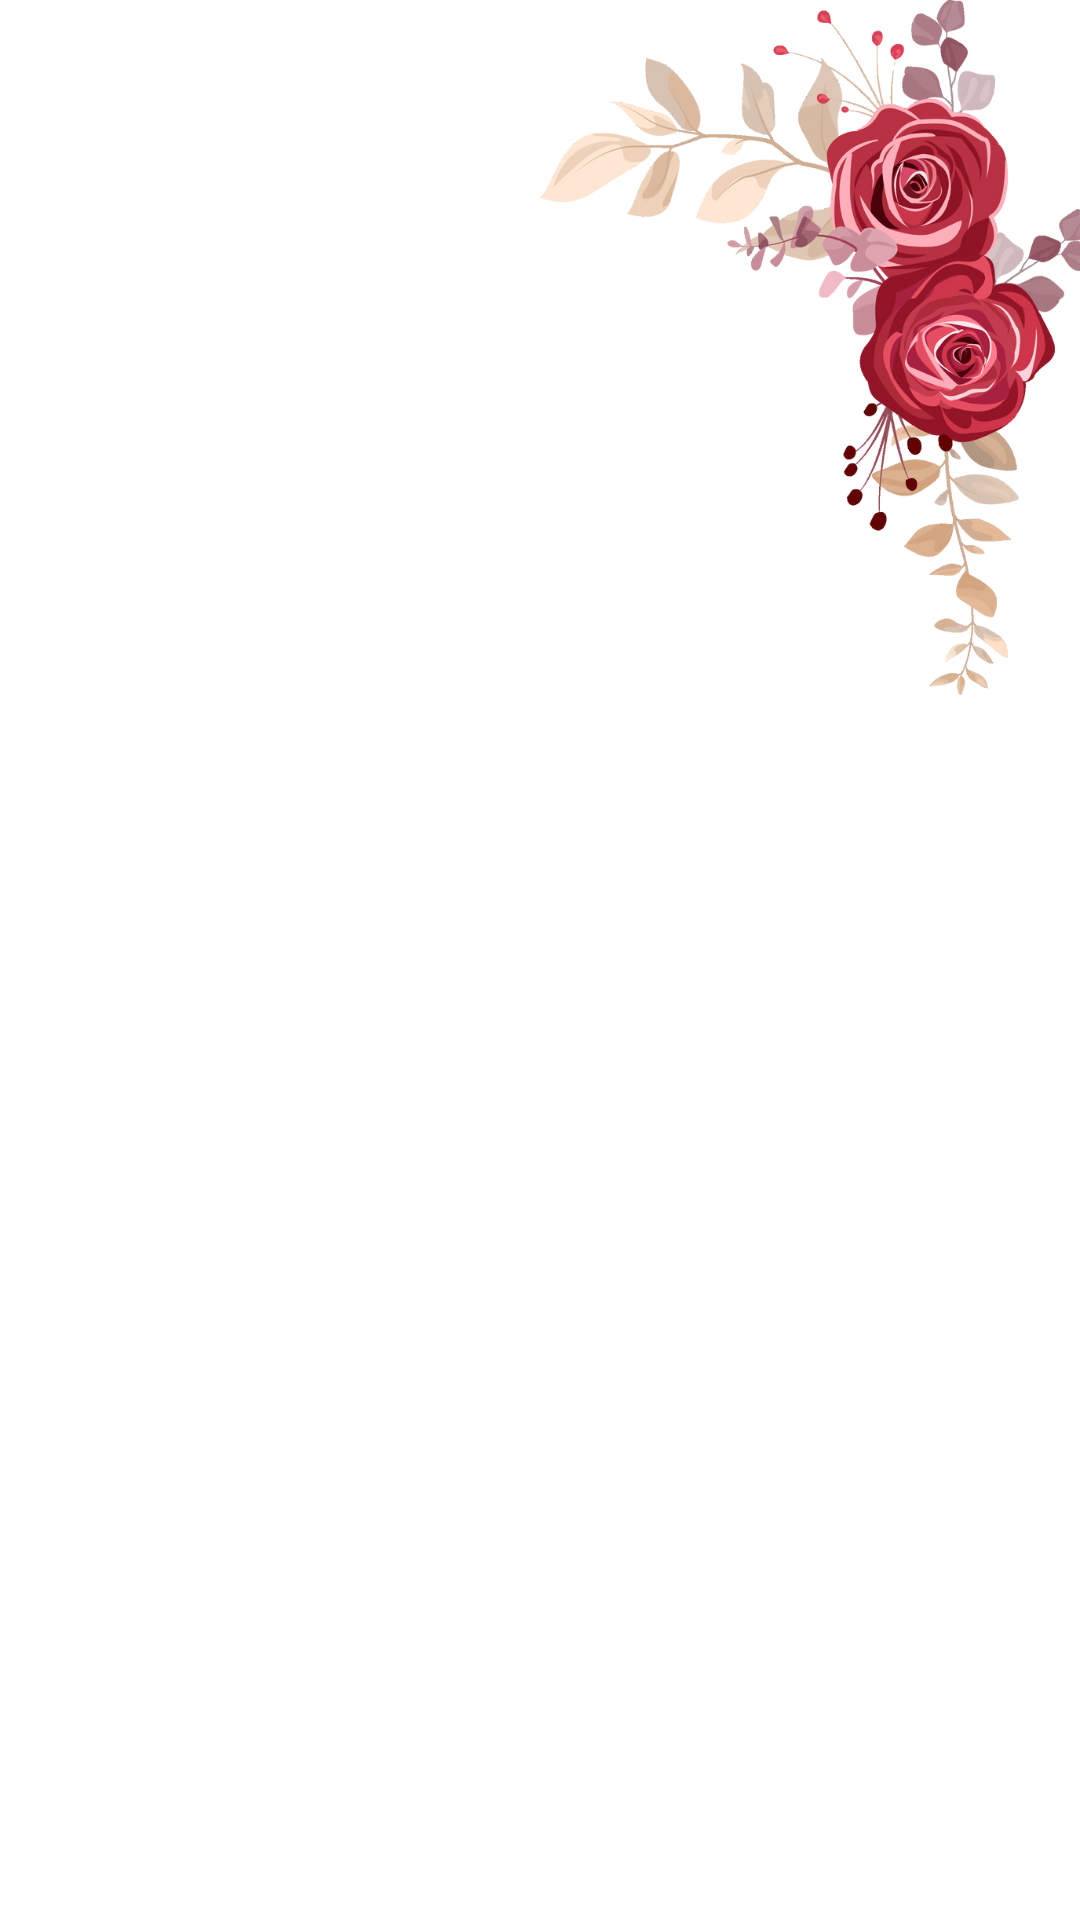
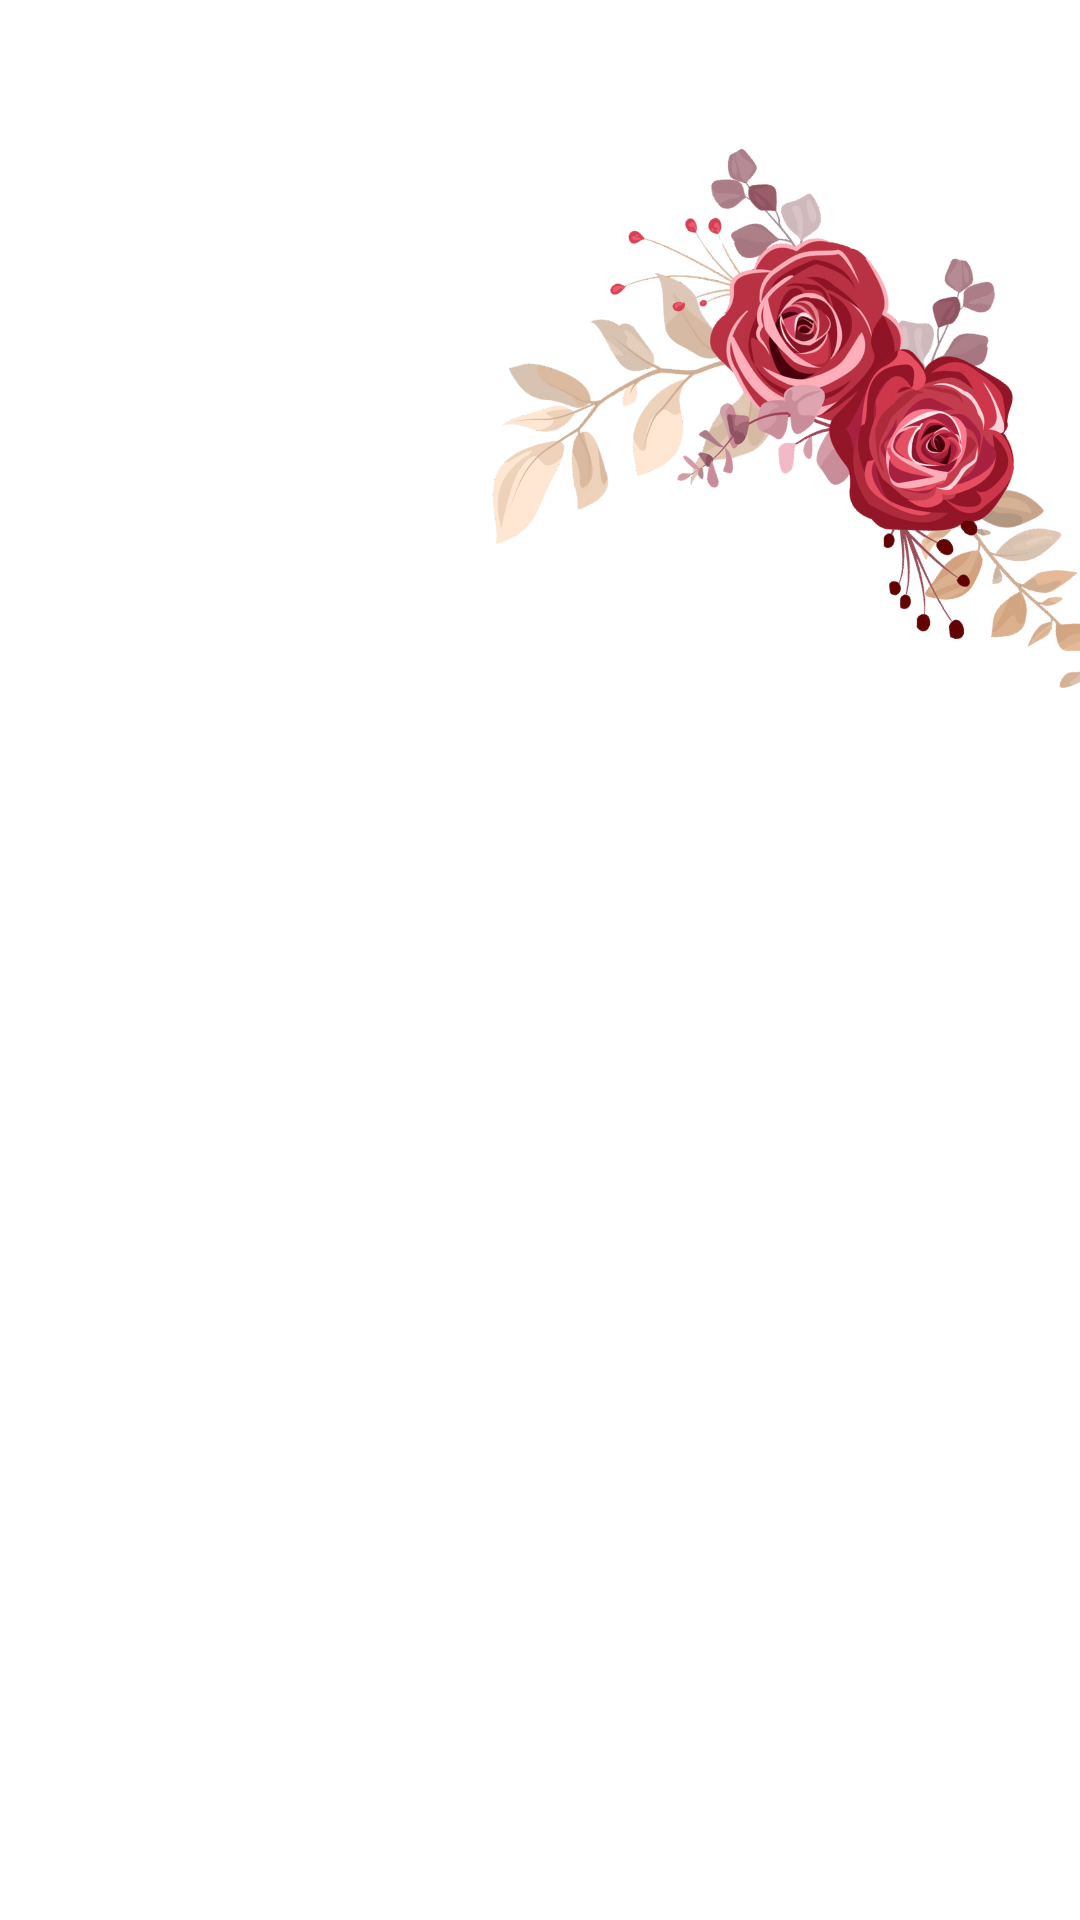
version 2

Changed region(s): [[0.4583, 0.0, 1.0, 0.375]]

diff --git a/src/components/CollageSection.jsx b/src/components/CollageSection.jsx
@@ -1,14 +1,21 @@
 import React, { useState } from "react";
 import { motion, useInView } from "framer-motion";
-import { backgroundWedding4 as backgroundImg } from "../assets/assets";
+import {
+  backgroundWedding4 as backgroundImg,
+  photo1,
+  photo2,
+  photo3,
+  photo4,
+  photo5,
+} from "../assets/assets";
 
 const CollageSection = () => {
   const [images, setImages] = useState([
-    "https://via.placeholder.com/400",
-    "https://via.placeholder.com/400",
-    "https://via.placeholder.com/400",
-    "https://via.placeholder.com/400",
-    "https://via.placeholder.com/400",
+    photo1,
+    photo2,
+    photo3,
+    photo4,
+    photo5,
   ]);
 
   return (
@@ -24,7 +31,7 @@ const CollageSection = () => {
         {/* First large image spanning multiple rows and columns */}
         <ImageCard
           src={images[0]}
-          className="col-span-2 row-span-2 lg:col-span-3 lg:row-span-3"
+          className="col-span-2 row-span-2 h-[300px] sm:h-[350px] lg:col-span-3 lg:row-span-3 lg:h-[500px] flex justify-center items-center"
           animationDelay={0}
         />
 
@@ -33,26 +40,10 @@ const CollageSection = () => {
           <ImageCard
             key={index}
             src={image}
-            className="h-full lg:col-span-1 lg:row-span-1"
+            className="h-[150px] sm:h-[200px] lg:h-[200px] lg:col-span-1 lg:row-span-1 lg:m-2" // Reduced height for larger screens
             animationDelay={index * 0.2}
           />
         ))}
-
-        {/* Extra image for large screens */}
-        {images[4] && (
-          <ImageCard
-            src={images[4]}
-            className="hidden lg:block lg:col-span-1 lg:row-span-1"
-            animationDelay={1.2}
-          />
-        )}
-
-        {/* Additional card displayed only on large devices */}
-        <ImageCard
-          src="https://via.placeholder.com/400"
-          className="hidden lg:block lg:col-span-1 lg:row-span-1"
-          animationDelay={1.4}
-        />
       </div>
     </div>
   );

diff --git a/src/components/WeddingInviteDetails.jsx b/src/components/WeddingInviteDetails.jsx
@@ -49,7 +49,7 @@ const WeddingInviteDetails = () => {
         <div className="text-center md:pl-6">
           <div className="flex items-center justify-center space-x-1">
             <h4 className="text-2xl font-bold text-pink-600 md:text-4xl">27</h4>
-            <h4 className="text-base text-gray-700 md:text-xl">RD</h4>
+            <h4 className="text-base text-gray-700 md:text-xl">TH</h4>
           </div>
           <h5 className="text-base text-gray-500 md:text-2xl">November</h5>
           <h5 className="text-sm italic text-gray-500 md:text-lg">Wednesday</h5>
@@ -107,13 +107,17 @@ const WeddingInviteDetails = () => {
 
   return (
     <div
-      className="relative flex flex-col items-center justify-center min-h-screen px-4 bg-center bg-cover bg-custom-gradient"
-      style={{ backgroundImage: `url(${backgroundImg})` }}
+      className="relative flex flex-col items-center justify-center h-screen px-4 bg-center bg-cover bg-custom-gradient sm:min-h-[80vh]"
+      style={{
+        backgroundImage: `url(${backgroundImg})`,
+        backgroundSize: "cover",
+        backgroundPosition: "center",
+      }}
     >
       {/* Heading text */}
       <motion.h1
         ref={headingRef}
-        className="relative z-20 mb-8 text-3xl font-bold text-pink-700 md:text-5xl"
+        className="relative z-20 mb-8 text-3xl font-bold text-pink-700 md:text-5xl font-main"
         initial={{ opacity: 0, y: -40 }}
         animate={isHeadingInView ? { opacity: 1, y: 0 } : {}}
         transition={{ duration: 1 }}
@@ -156,7 +160,7 @@ const WeddingInviteDetails = () => {
         <motion.img
           src={floralVector4}
           alt="Floral Decoration 4"
-          className="absolute top-0 right-0 w-full"
+          className="absolute right-0 w-full top-24"
           initial={{ opacity: 0.8, scale: 0.9, y: -20 }}
           animate={isFloralInView ? { scale: 1, y: 0 } : {}}
           transition={{ duration: 1.5 }}

diff --git a/src/components/Hero.jsx b/src/components/Hero.jsx
@@ -46,10 +46,10 @@ const MobileHero = ({ sectionHeight }) => {
         sectionHeight={sectionHeight}
         offsetX="0"
         startY={startYMobile}
-        endY={startYMobile - 50} // Subtle movement
+        endY={startYMobile - 30} // Slower movement for foreground
         className="w-auto mx-auto h-[400px]"
       />
-      <div className="absolute bottom-0 left-0 right-0 h-64 bg-gradient-to-b from-[#FCECDD]/0 to-[#FFC288]" />
+      <div className="absolute bottom-0 left-0 right-0 h-32 bg-gradient-to-b from-[#FCECDD]/0 to-[#FFC288]" />
     </div>
   );
 };
@@ -79,7 +79,7 @@ const ParallaxBackground = ({ image, sectionHeight }) => {
   );
 };
 
-// Parallax Foreground Component
+// Parallax Foreground Component with Fade
 const ParallaxForeground = ({
   image,
   sectionHeight,
@@ -91,8 +91,15 @@ const ParallaxForeground = ({
 }) => {
   const { scrollY } = useScroll();
 
-  // Subtle scroll movement for the avatar image
+  // Slow scroll movement for the avatar image
   const y = useTransform(scrollY, [0, sectionHeight], [startY, endY]);
+
+  // Fade out when approaching the center of the screen
+  const opacity = useTransform(
+    scrollY,
+    [0, sectionHeight / 2, sectionHeight],
+    [1, 0.5, 0]
+  );
 
   return (
     <motion.div
@@ -100,6 +107,7 @@ const ParallaxForeground = ({
       style={{
         translateX: offsetX,
         translateY: y,
+        opacity: opacity,
       }}
     >
       <img

diff --git a/src/App.jsx b/src/App.jsx
@@ -5,26 +5,27 @@ import HeroComponent from "./components/Hero";
 import WeddingInviteDetails from "./components/WeddingInviteDetails";
 import CollageSection from "./components/CollageSection";
 import MapSection from "./components/MapSection";
+import EndingDesign from "./components/EndingDesign";
 
 function App() {
   return (
     <div className="min-h-screen App bg-custom-gradient">
       <Navbar />
-      {/* Sections for hero, details, gallery, and footer */}
+      {/* Sections for hero, details, gallery, and directions */}
       <section id="hero" className="min-h-screen mx-2">
         <HeroComponent />
       </section>
-      <div className="h-20" />
+      <EndingDesign backgroundImgIndex={2} />
 
       <section id="details" className="min-h-screen mx-2">
         <WeddingInviteDetails />
       </section>
-      <div className="h-20" />
+      <EndingDesign backgroundImgIndex={2} />
 
       <section id="gallery" className="min-h-screen mx-2">
         <CollageSection />
       </section>
-      <div className="h-20" />
+      <EndingDesign backgroundImgIndex={3} />
 
       <section id="map" className="min-h-screen mx-2">
         <MapSection />

diff --git a/src/assets/assets.js b/src/assets/assets.js
@@ -10,6 +10,15 @@ import floralVector4 from "./floral-vector4.png";
 import floralVector5 from "./floral-vector5.png";
 import weddingAvatarBgrm from "./wedding_avatar_bgrm.png";
 import weddingBackground3 from "./wedding_background3.png";
+import floral_line1 from "./floral_line1.png";
+import floral_line2 from "./floral_line2.png";
+import floral_line3 from "./floral_line3.png";
+import floral_line4 from "./floral_line4.png";
+import photo1 from "./Photo1.jpg";
+import photo2 from "./Photo2.jpg";
+import photo3 from "./Photo3.jpg";
+import photo4 from "./Photo4.jpg";
+import photo5 from "./Photo5.jpg";
 
 export {
   backgroundWedding1,
@@ -23,4 +32,13 @@ export {
   floralVector5,
   weddingAvatarBgrm,
   weddingBackground3,
+  floral_line1,
+  floral_line2,
+  floral_line3,
+  floral_line4,
+  photo1,
+  photo2,
+  photo3,
+  photo4,
+  photo5,
 };

diff --git a/src/components/EndingDesign.jsx b/src/components/EndingDesign.jsx
@@ -1,0 +1,21 @@
+import React from "react";
+import {
+  floral_line1,
+  floral_line2,
+  floral_line3,
+  floral_line4,
+} from "../assets/assets";
+
+const EndingDesign = ({ backgroundImgIndex = 0 }) => {
+  const floralLines = [floral_line1, floral_line2, floral_line3, floral_line4];
+  const backgroundImg = floralLines[backgroundImgIndex] || floral_line1; // Default to first if out of range
+
+  return (
+    <div
+      className="relative flex items-center justify-center h-20 bg-center bg-cover bg-opacity-30"
+      style={{ backgroundImage: `url(${backgroundImg})` }}
+    ></div>
+  );
+};
+
+export default EndingDesign;

diff --git a/src/components/HeroWeddingInvite.jsx b/src/components/HeroWeddingInvite.jsx
@@ -56,7 +56,7 @@ const HeroWeddingInvite = () => {
         transition={{ duration: 1.5 }}
       >
         <h1 className="mb-4 font-serif text-6xl font-main">
-          Manasa & Shreedhar
+          Manasa & Shridhar
         </h1>
         <p className="text-2xl font-light font-mini">We're Getting Married</p>
 
